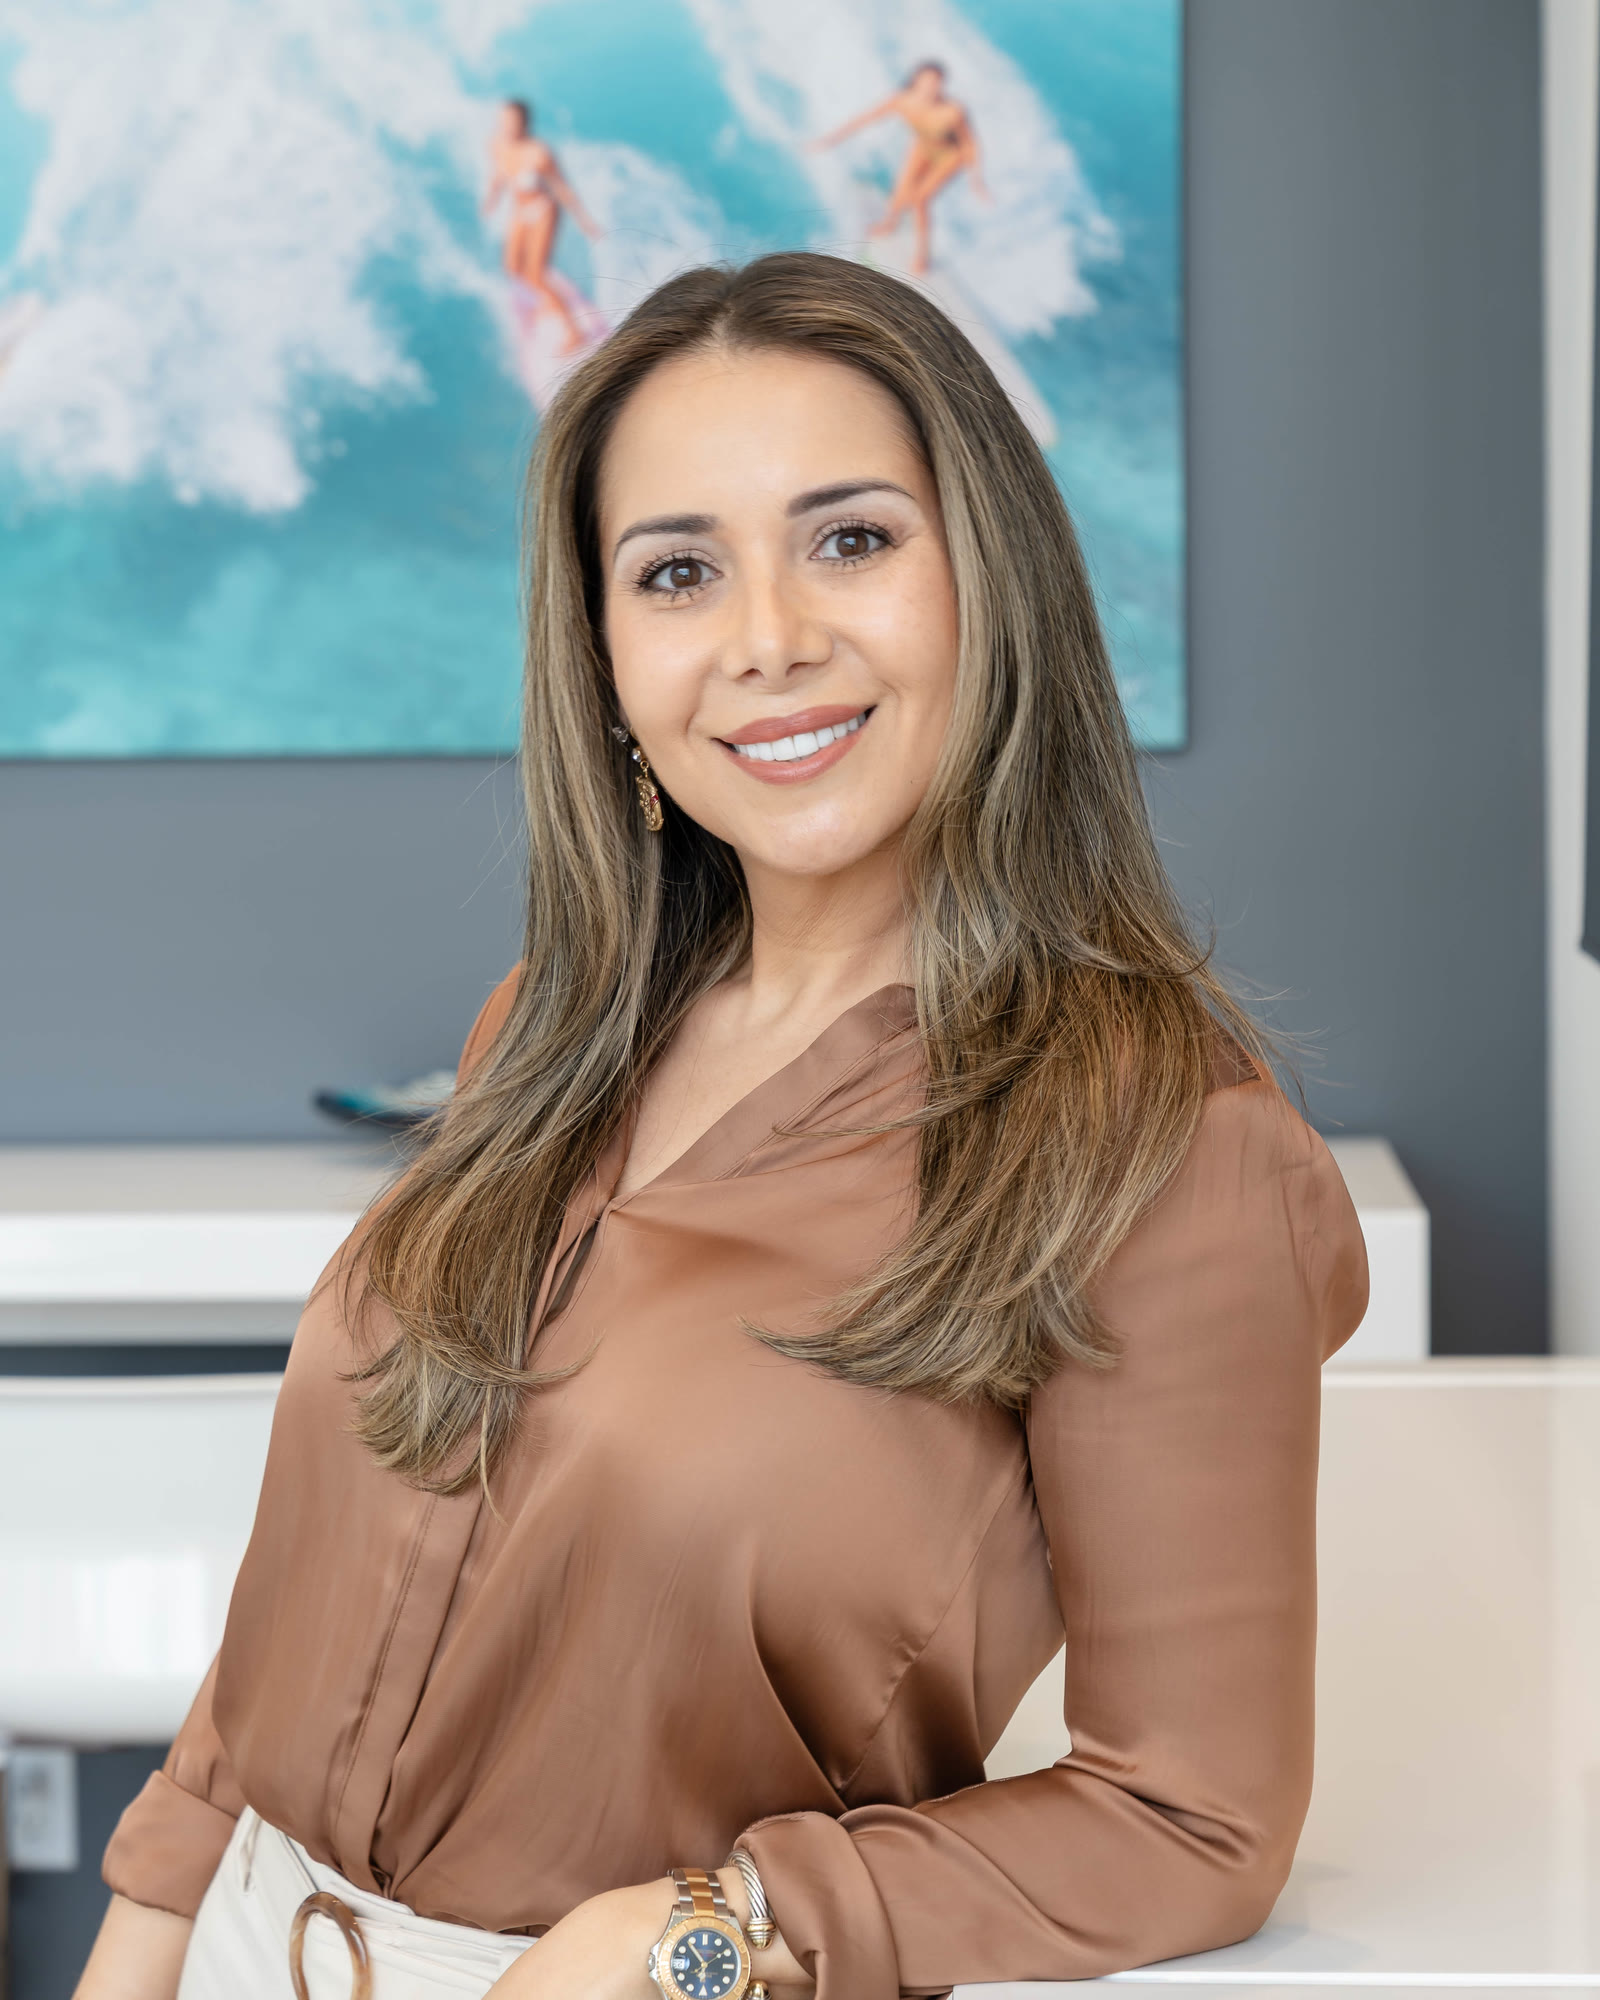
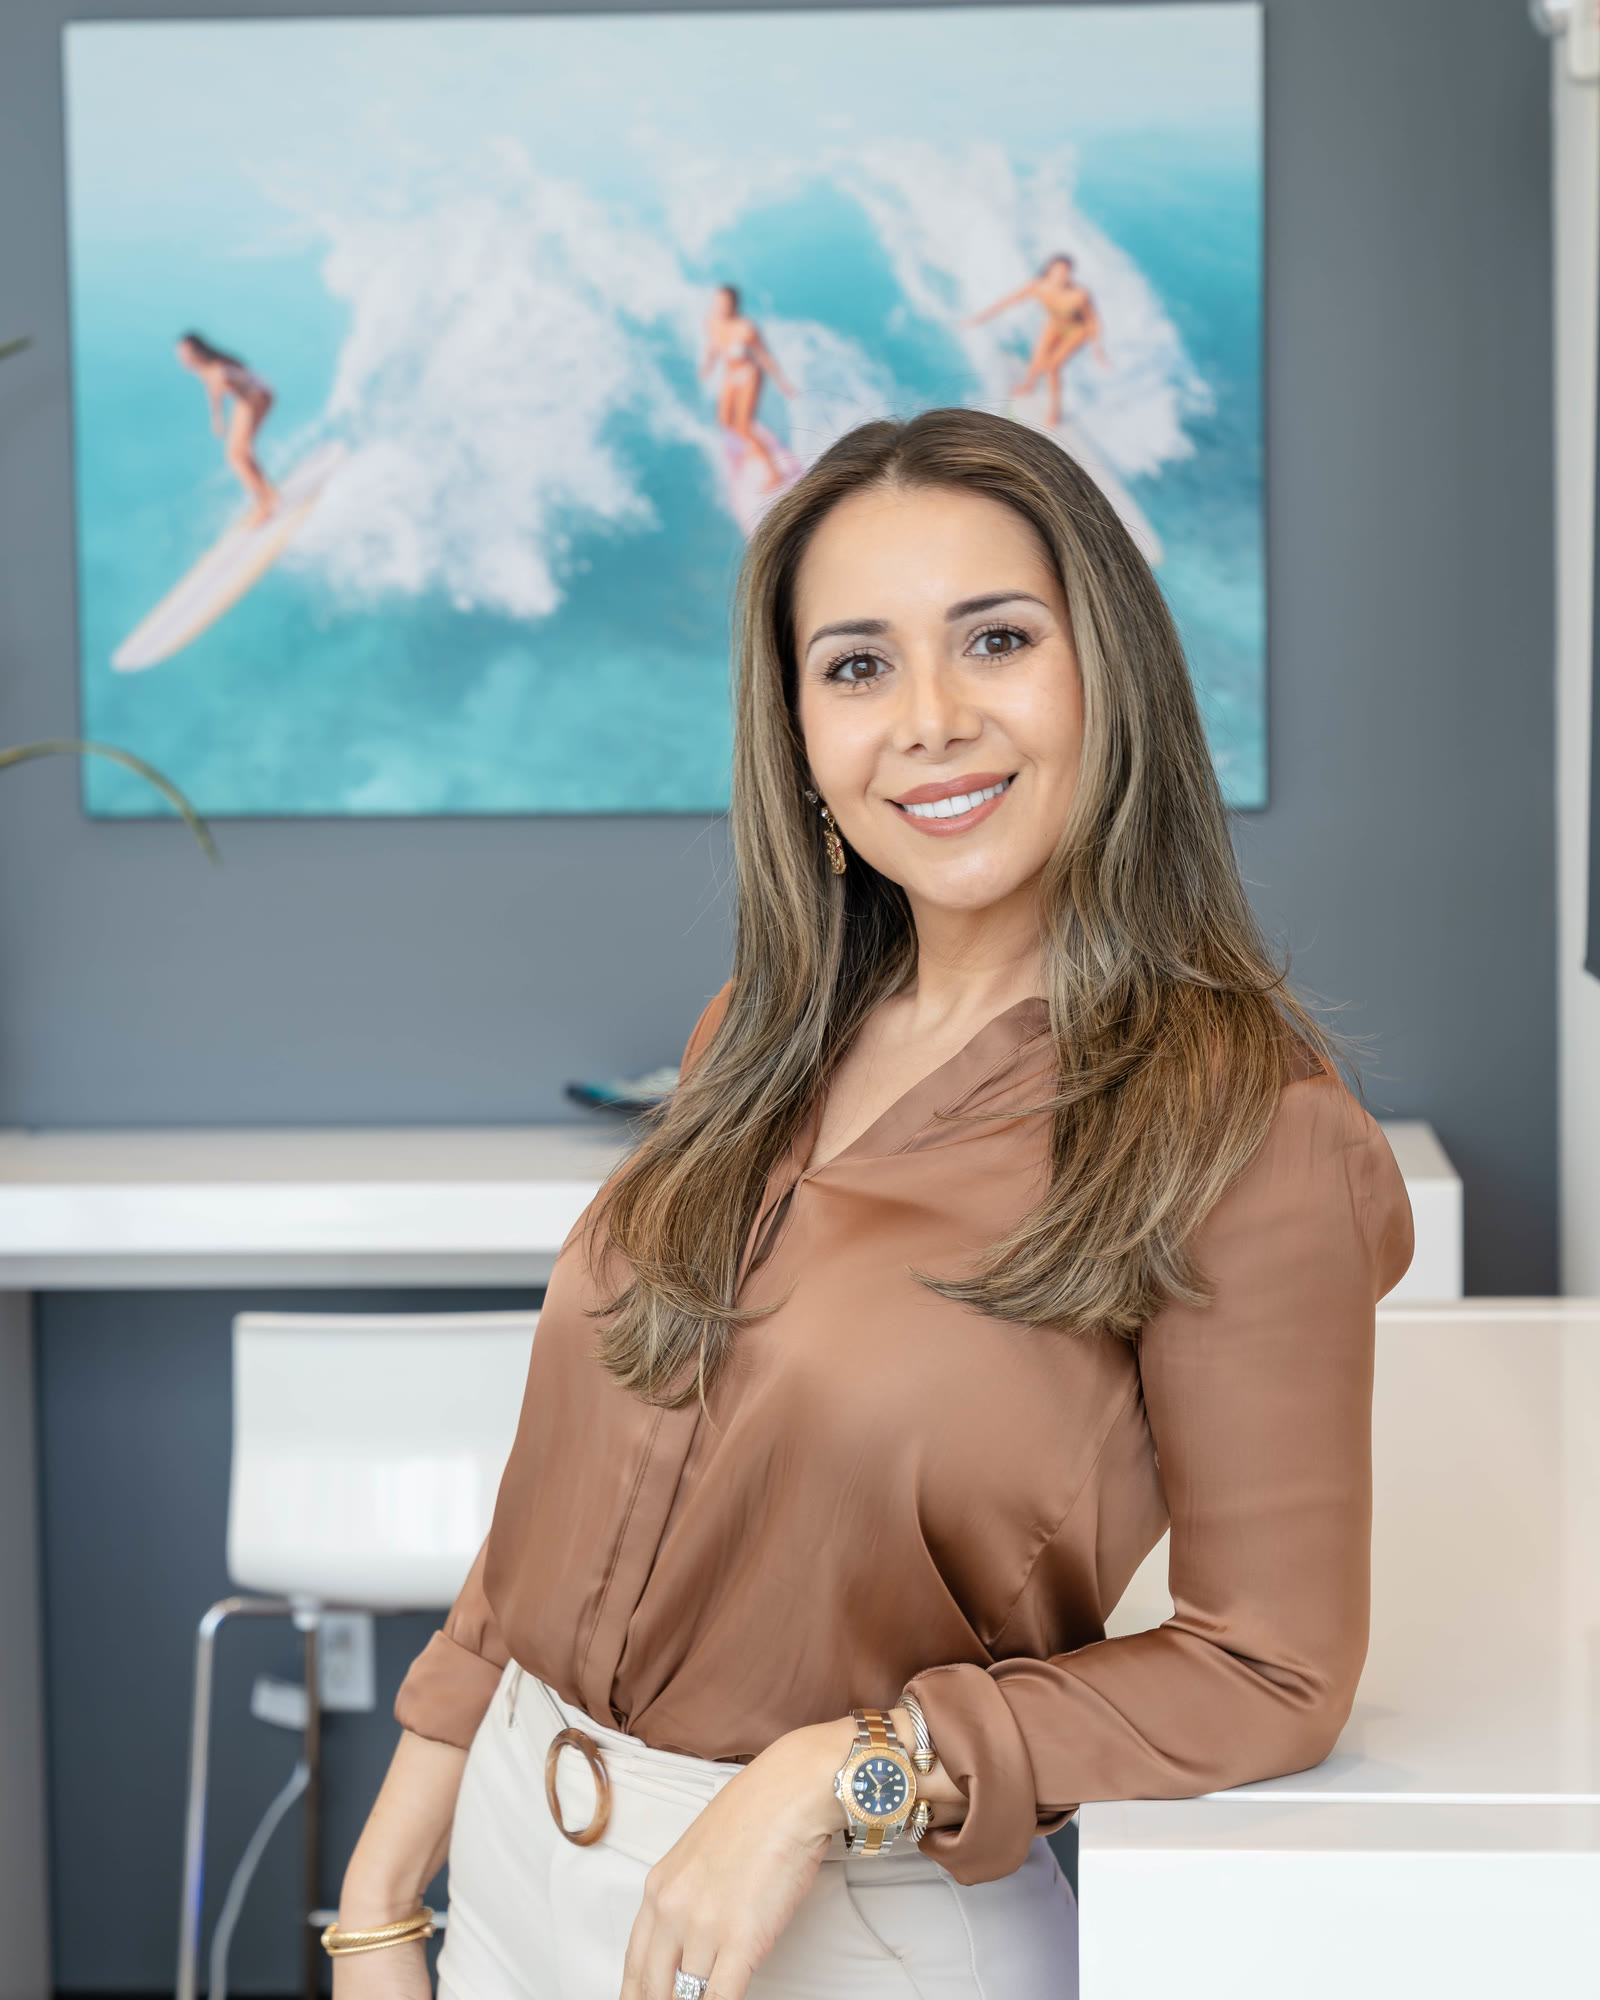
Show the whole photograph instead of a cropped middle
Two things were trimming it. The 4:5 crop used only the middle 80 percent
of the frame width, and the container then oversized the image by 42px to
give the parallax somewhere to travel, eating the top and bottom.

Recut both photos from the full frame width, and matched each file to its
container ratio exactly, 1600x2000 into a 4:5 box and 1600x1200 into a 4:3
box, so cover crops nothing.

Removed .about__photo img from the parallax targets. Every remaining
target is oversized in CSS on purpose so the drift has room; this one is
cut to fit, so translating it would put the crop straight back. Noted in
the target list so it does not get re added.

Her hands, the watch, the full artwork and the desk are all in frame now.

diff --git a/js/reveal.js b/js/reveal.js
@@ -57,11 +57,14 @@
   /* Elements are tagged rather than hard coded so this stays additive: nothing
      here hides anything, so a JS failure costs motion and never content.
      `range` is how far the inner layer travels across the full pass, in px. */
+  /* Every target here is deliberately oversized in CSS so the drift has room to
+     travel without exposing an edge. Do not add a selector whose image is cut
+     to exactly its container: the translate would crop the frame.
+     .about__photo is the example, and it is why it is not in this list. */
   const PARALLAX_TARGETS = [
-    { sel: '.page-hero__img',   range: 90 },
-    { sel: '.path__media img',  range: 26 },
-    { sel: '.card__media img',  range: 20 },
-    { sel: '.about__photo img', range: 34 },
+    { sel: '.page-hero__img',  range: 90 },
+    { sel: '.path__media img', range: 26 },
+    { sel: '.card__media img', range: 20 },
   ];
 
   const layers = [];

diff --git a/css/styles.css b/css/styles.css
@@ -751,11 +751,15 @@ a:hover { color: var(--ink); }
   border-radius: var(--radius);
   background: var(--bone-2);
 }
-/* Oversized for the same reason as the page hero: it drifts. */
+/* Exact fit, no oversize. The file is cut to the same ratio as the box, so
+   cover crops nothing and the whole photograph is visible. It used to be 42px
+   taller to give the parallax something to travel through, which quietly ate
+   the top and bottom of the frame. The drift is not worth losing her hands and
+   the top of the artwork, so this one does not parallax. */
 .about__photo img {
-  width: 100%; height: calc(100% + 42px);
-  margin-top: -21px;
+  width: 100%; height: 100%;
   object-fit: cover;
+  object-position: center;
 }
 .about__quote {
   font-family: var(--display);
